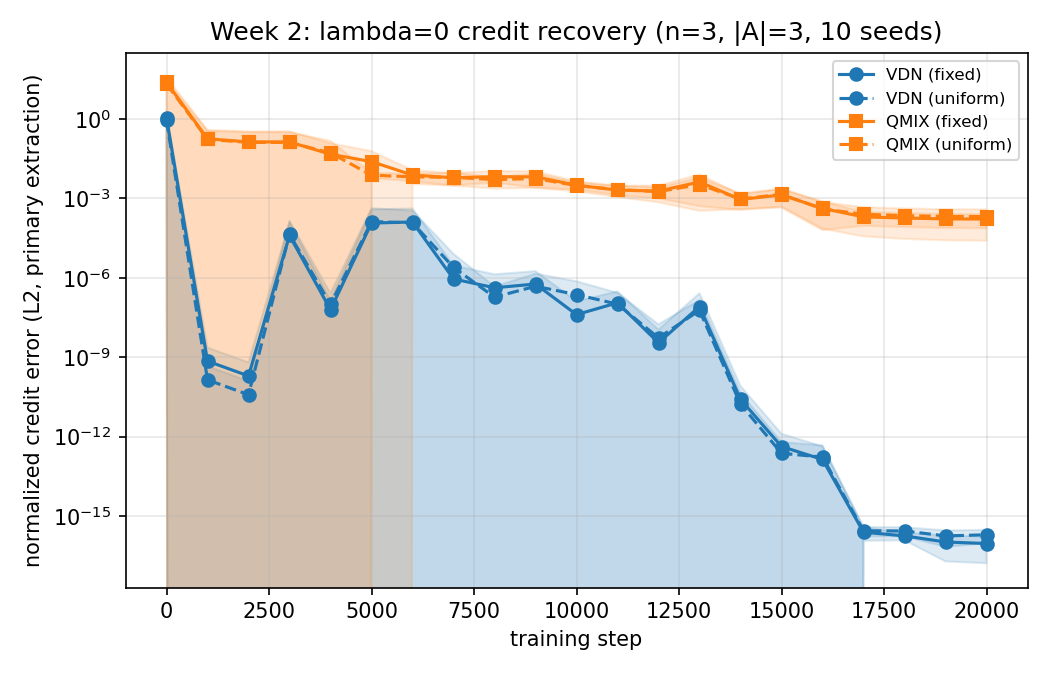
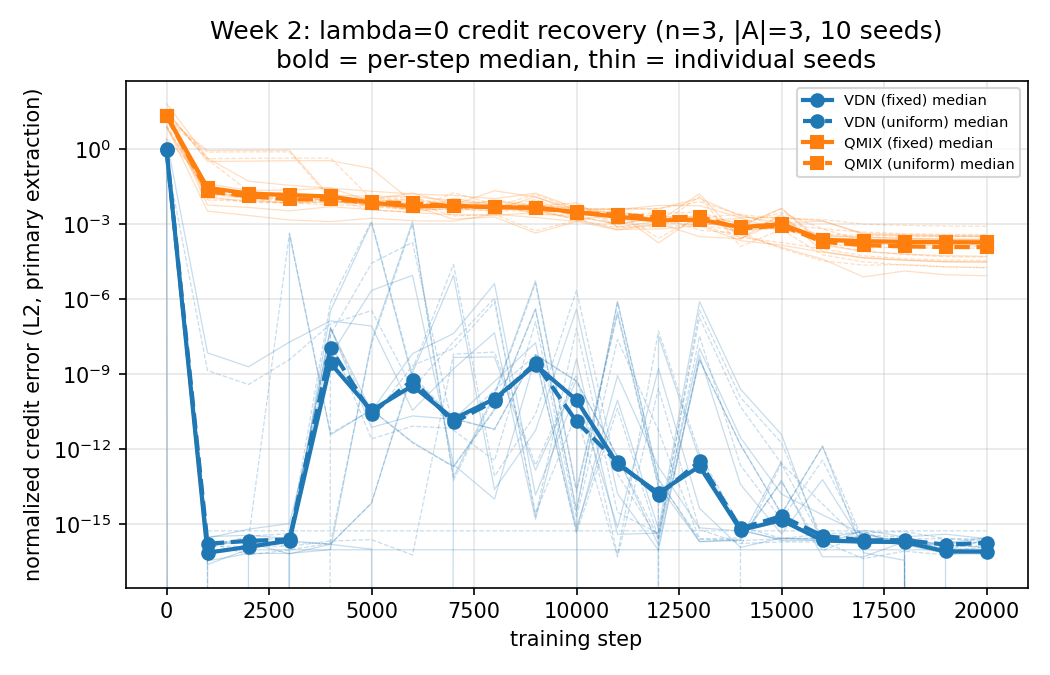
Week 2 Task 7: fix credit-error figure's CI-band artifact
results/week2_lambda0.png's band ran to the bottom of the axis: a
linear-space mean +/- CI, plotted on a log axis, with credit error
spanning many orders of magnitude across seeds. A first fix (CI in
log10 space) made it worse -- several VDN seeds recover credit to
exactly 0.0 at lambda=0, and flooring those zeros before the log
manufactures an arbitrary, enormous fake spread (one attempt produced
a 10^-216-to-10^40 axis). Neither linear nor log parametric statistics
fit data with legitimate exact zeros mixed with near-zero floats.

write_plot() now draws per-seed lines (thin, low alpha) plus the
per-step median (bold) instead of any mean+CI band. Same underlying
training/data as every prior version of this figure -- plotting only.
Gate verdict numbers unchanged (CSV-derived, untouched by this).

results/week2_lambda0_fit.png removed: that figure was already moved
to eval/week2_diagnostics.py in the previous commit; this stray copy
in the gate script's own directory was left behind by mistake.

diff --git a/game_project/eval/week2_lambda0.py b/game_project/eval/week2_lambda0.py
@@ -87,6 +87,20 @@ def _nanmean_ci95(values):
     return mean, ci, n_dropped
 
 
+## Note on the credit-error figure's band (write_plot, below): a first
+## attempt computed the CI in log10 space (geometric mean +/- log-space CI)
+## instead of linear mean +/- CI, to fix the linear band running to the
+## bottom of a log-scale axis. That made it worse, not better: at lambda=0
+## several VDN seeds recover credit to *exactly* 0.0 (perfect recovery at
+## machine precision -- confirmed in results/week2_lambda0.csv), mixed with
+## other seeds at ~1e-16. log10(0) is undefined, so flooring those exact
+## zeros at any epsilon manufactures an arbitrary, enormous fake spread in
+## log space (the epsilon choice alone produced a 10^-216-to-10^40 y-axis).
+## Parametric statistics -- linear or log -- don't fit data with legitimate
+## exact zeros mixed with near-zero floats. write_plot uses the per-seed
+## lines + median instead, which has no such failure mode.
+
+
 def _run(ModelClass, seed, steps, lr, log_every):
     game = make_game(N, N_ACTIONS, LAM, seed)
     payoff = game["payoff"]
@@ -216,6 +230,18 @@ def write_csv(csv_rows):
 
 
 def write_plot(curves):
+    """Per-seed lines (thin, low alpha) plus the per-step median (bold) --
+    not a parametric mean +/- CI band. See the note above this function's
+    old band helper: at lambda=0 several VDN seeds hit exactly 0.0 credit
+    error, mixed with others at ~1e-16, and neither a linear nor a log10
+    mean+CI handles that mix (linear collapses to the axis floor; log
+    explodes once the zeros are floored). The median has neither failure
+    mode, and keeping the raw per-seed lines visible (rather than
+    replacing them with any single-number summary) means no spread
+    information is hidden behind a statistic that doesn't fit this data.
+    matplotlib silently omits non-positive points on a log axis, so a
+    seed's exact-0.0 steps just don't plot -- the correct behavior here,
+    not a bug."""
     fig, ax = plt.subplots(figsize=(7, 4.5))
     styles = {
         ("VDN", "fixed"): dict(color="C0", marker="o", linestyle="-"),
@@ -224,22 +250,20 @@ def write_plot(curves):
         ("QMIX", "uniform"): dict(color="C1", marker="s", linestyle="--"),
     }
     for (method_name, bname), (steps, arr) in curves.items():
-        means, cis = [], []
-        for col in range(arr.shape[1]):
-            m, ci, _ = _nanmean_ci95(arr[:, col])
-            means.append(m)
-            cis.append(ci)
-        means = np.array(means)
-        cis = np.array(cis)
         style = styles[(method_name, bname)]
-        ax.plot(steps, means, label=f"{method_name} ({bname})", **style)
-        ax.fill_between(steps, means - cis, means + cis, alpha=0.15, color=style["color"])
+        for row in arr:
+            ax.plot(steps, row, color=style["color"], linestyle=style["linestyle"],
+                    linewidth=0.6, alpha=0.25, zorder=1)
+        median = np.nanmedian(arr, axis=0)
+        ax.plot(steps, median, label=f"{method_name} ({bname}) median",
+                linewidth=2, zorder=2, **style)
 
     ax.set_yscale("log")
     ax.set_xlabel("training step")
     ax.set_ylabel("normalized credit error (L2, primary extraction)")
-    ax.set_title("Week 2: lambda=0 credit recovery (n=3, |A|=3, 10 seeds)")
-    ax.legend(fontsize=8)
+    ax.set_title("Week 2: lambda=0 credit recovery (n=3, |A|=3, 10 seeds)\n"
+                  "bold = per-step median, thin = individual seeds")
+    ax.legend(fontsize=7, loc="upper right")
     ax.grid(alpha=0.3, which="both")
     fig.tight_layout()
     fig.savefig(PNG_PATH, dpi=150)
